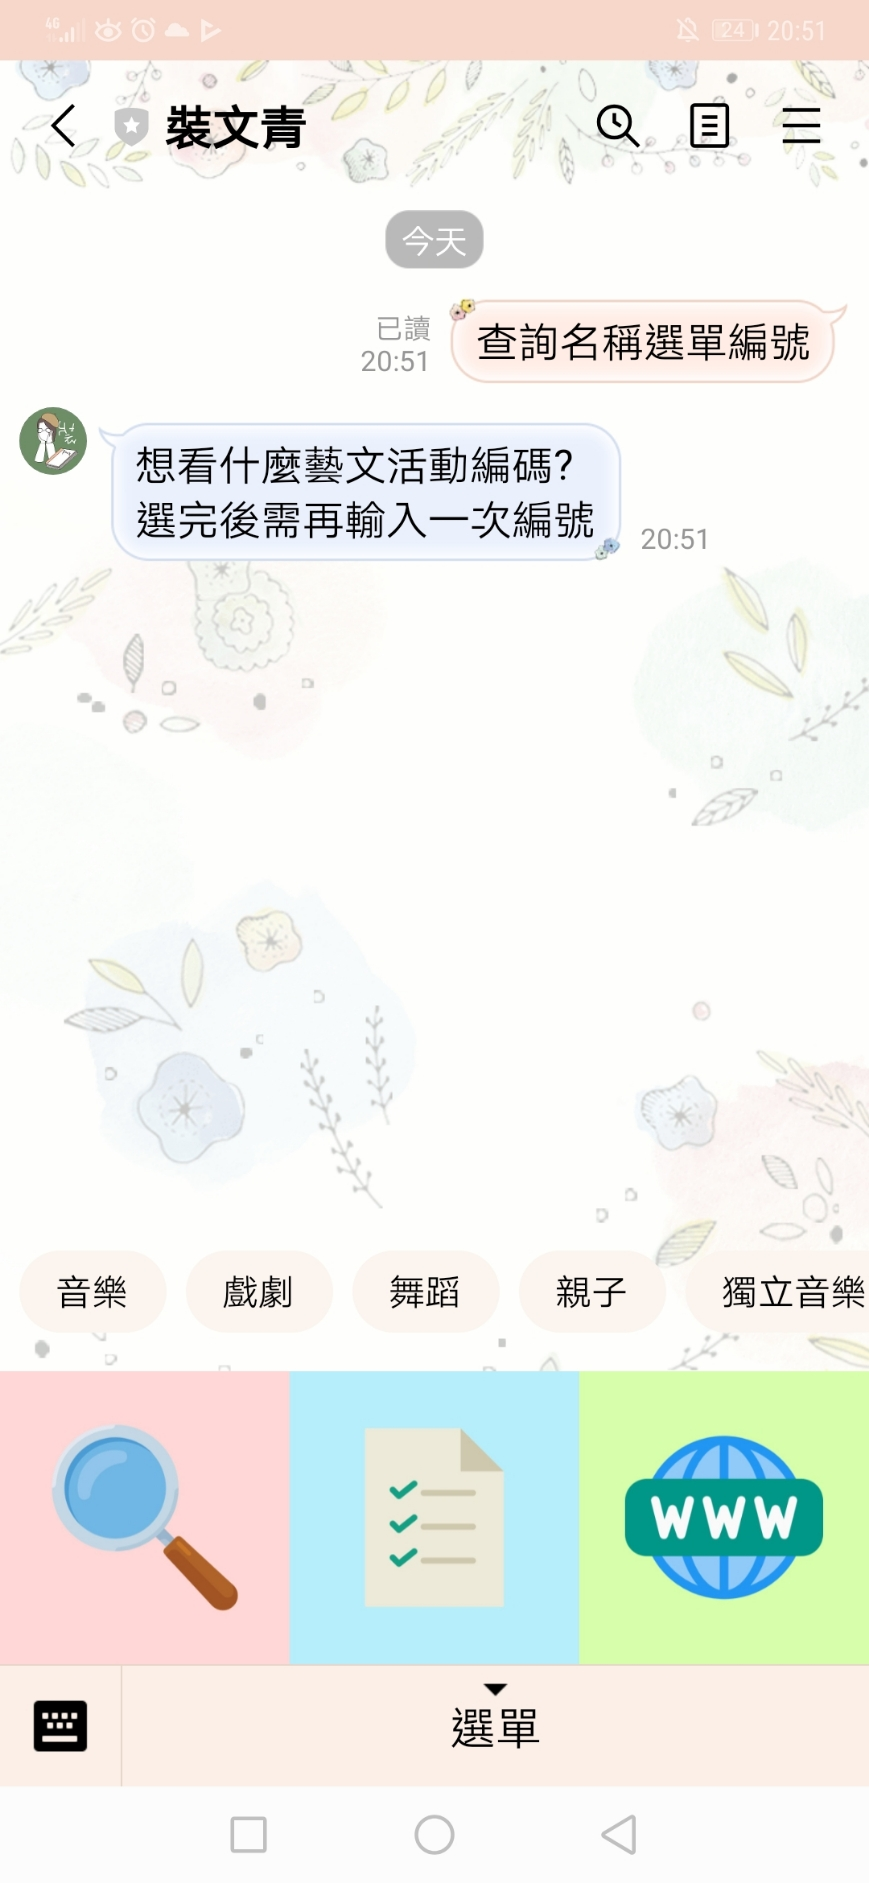
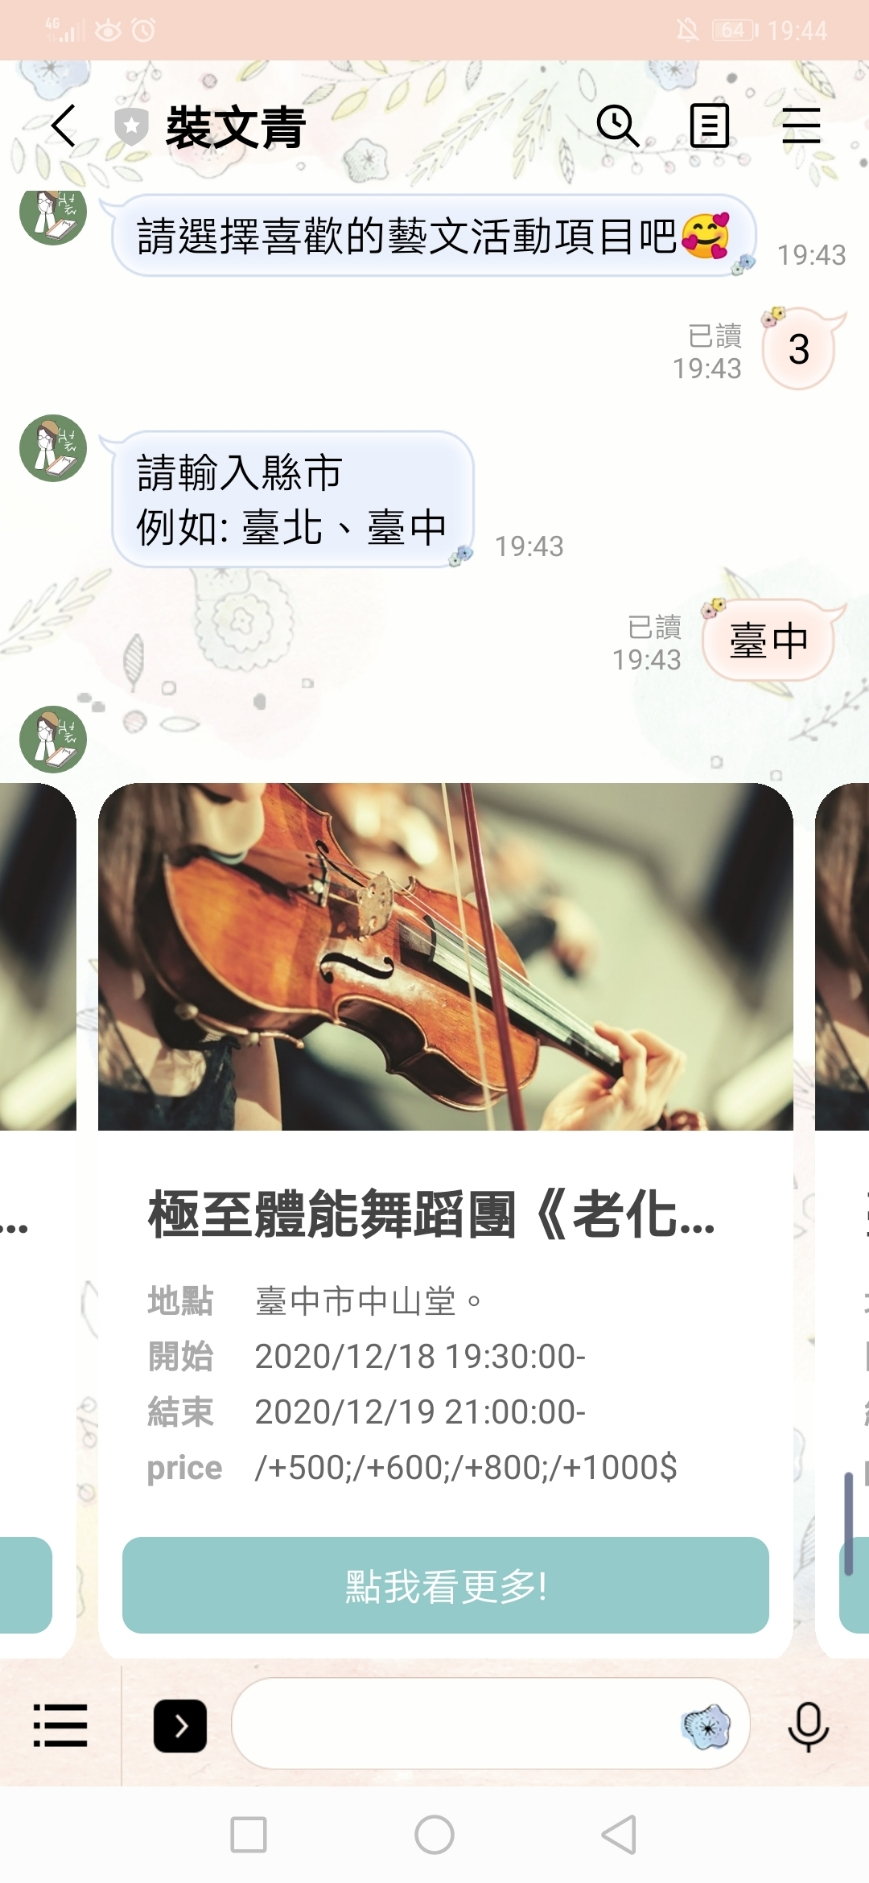
修改文字 、介紹

diff --git a/index.js b/index.js
@@ -34,14 +34,14 @@ bot.on('message', async event => {
     if (text === '找類別') {
       event.reply('請輸入搜尋特定編號:\n' + '🎼  音樂:  1 \n' + '🎭  戲劇:  2 \n' + '💃  舞蹈:  3 \n' + '👩👦  親子:  4\n' + '🎧  獨立音樂: 5 \n' +
         '👁  展覽:  6 \n' + '👨🏫  講座:  7 \n' + '🎬  電影:  8 \n' + '🧛  綜藝:  11 \n' + '⛳  競賽:  13 \n' + '🏆  徵選:  14 \n' + ' ❓  其他:  15 \n' + '🎤  演唱會:  17 \n' + '📖  研習課程:  19\n')
-    } else if (text === '對什麼類別有興趣呢?') {
+    } else if (text === '今天想裝文青🤓') {
       reply = await quickReply
       event.reply(reply)
     }
     if (text === '1' || text === '2' || text === '3' || text === '4' || text === '5' || text === '6' || text === '7' || text === '8' || text === '11' || text === '13' || text === '14' || text === '15' || text === '17' || text === '19') {
       num = text
-      reply = '請輸入城市\n' + '例如: 臺北、臺中'
       reply = await quickCity
+
       event.reply(reply)
       console.log(num)
       console.log(text)
@@ -568,6 +568,318 @@ bot.on('message', async event => {
                         ],
                         flex: 0
                       }
+                    },
+                    {
+                      type: 'bubble',
+                      hero: {
+                        type: 'image',
+                        url: 'https://i.imgur.com/HdtOodM.jpg',
+                        size: 'full',
+                        aspectRatio: '20:10',
+                        aspectMode: 'cover',
+                        action: {
+                          type: 'uri',
+                          uri: 'http://linecorp.com/'
+                        }
+                      },
+                      body: {
+                        type: 'box',
+                        layout: 'vertical',
+                        spacing: 'md',
+                        contents: [
+                          {
+                            type: 'text',
+                            text: info[3].title,
+                            weight: 'bold',
+                            size: 'xl'
+                          },
+                          {
+                            type: 'box',
+                            layout: 'vertical',
+                            margin: 'lg',
+                            spacing: 'sm',
+                            contents: [
+                              {
+                                type: 'box',
+                                layout: 'baseline',
+                                spacing: 'sm',
+                                contents: [
+                                  {
+                                    type: 'text',
+                                    text: '地點',
+                                    weight: 'bold',
+                                    color: '#aaaaaa',
+                                    size: 'sm',
+                                    flex: 1
+                                  },
+                                  {
+                                    type: 'text',
+                                    text: info[3].location,
+                                    wrap: true,
+                                    color: '#666666',
+                                    size: 'sm',
+                                    flex: 5
+                                  }
+                                ]
+                              },
+                              {
+                                type: 'box',
+                                layout: 'baseline',
+                                spacing: 'sm',
+                                contents: [
+                                  {
+                                    type: 'text',
+                                    text: '開始',
+                                    weight: 'bold',
+                                    color: '#aaaaaa',
+                                    size: 'sm',
+                                    flex: 1
+                                  },
+                                  {
+                                    type: 'text',
+                                    text: info[3].timestart,
+                                    wrap: true,
+                                    color: '#666666',
+                                    size: 'sm',
+                                    flex: 5
+                                  }
+                                ]
+                              },
+                              {
+                                type: 'box',
+                                layout: 'baseline',
+                                spacing: 'sm',
+                                contents: [
+                                  {
+                                    type: 'text',
+                                    text: '結束',
+                                    weight: 'bold',
+                                    color: '#aaaaaa',
+                                    size: 'sm',
+                                    flex: 1
+                                  },
+                                  {
+                                    type: 'text',
+                                    text: info[3].time,
+                                    wrap: true,
+                                    color: '#666666',
+                                    size: 'sm',
+                                    flex: 5
+                                  }
+                                ]
+                              },
+
+                              {
+                                type: 'box',
+                                layout: 'baseline',
+                                spacing: 'sm',
+                                contents: [
+                                  {
+                                    type: 'text',
+                                    text: 'price',
+                                    weight: 'bold',
+                                    color: '#aaaaaa',
+                                    size: 'sm',
+                                    flex: 1
+                                  },
+                                  // {
+                                  //   type: 'icon',
+                                  //   url: 'https://scdn.line-apps.com/n/channel_devcenter/img/fx/restaurant_large_32.png'
+                                  // },
+                                  {
+                                    type: 'text',
+                                    text: info[3].price,
+                                    wrap: true,
+                                    color: '#666666',
+                                    size: 'sm',
+                                    flex: 5
+                                  }
+                                ]
+                              }
+                            ]
+                          }
+                        ]
+                      },
+                      footer: {
+                        type: 'box',
+                        layout: 'vertical',
+                        contents: [
+                          {
+                            type: 'button',
+                            style: 'primary',
+                            height: 'sm',
+                            color: '#95CACA',
+                            action: {
+
+                              type: 'uri',
+                              label: '點我看更多!',
+                              uri: info[3].web
+                            }
+                          },
+
+                          {
+                            type: 'spacer',
+                            size: 'sm'
+                          }
+                        ],
+                        flex: 0
+                      }
+                    },
+                    {
+                      type: 'bubble',
+                      hero: {
+                        type: 'image',
+                        url: 'https://i.imgur.com/HdtOodM.jpg',
+                        size: 'full',
+                        aspectRatio: '20:10',
+                        aspectMode: 'cover',
+                        action: {
+                          type: 'uri',
+                          uri: 'http://linecorp.com/'
+                        }
+                      },
+                      body: {
+                        type: 'box',
+                        layout: 'vertical',
+                        spacing: 'md',
+                        contents: [
+                          {
+                            type: 'text',
+                            text: info[4].title,
+                            weight: 'bold',
+                            size: 'xl'
+                          },
+                          {
+                            type: 'box',
+                            layout: 'vertical',
+                            margin: 'lg',
+                            spacing: 'sm',
+                            contents: [
+                              {
+                                type: 'box',
+                                layout: 'baseline',
+                                spacing: 'sm',
+                                contents: [
+                                  {
+                                    type: 'text',
+                                    text: '地點',
+                                    weight: 'bold',
+                                    color: '#aaaaaa',
+                                    size: 'sm',
+                                    flex: 1
+                                  },
+                                  {
+                                    type: 'text',
+                                    text: info[4].location,
+                                    wrap: true,
+                                    color: '#666666',
+                                    size: 'sm',
+                                    flex: 5
+                                  }
+                                ]
+                              },
+                              {
+                                type: 'box',
+                                layout: 'baseline',
+                                spacing: 'sm',
+                                contents: [
+                                  {
+                                    type: 'text',
+                                    text: '開始',
+                                    weight: 'bold',
+                                    color: '#aaaaaa',
+                                    size: 'sm',
+                                    flex: 1
+                                  },
+                                  {
+                                    type: 'text',
+                                    text: info[4].timestart,
+                                    wrap: true,
+                                    color: '#666666',
+                                    size: 'sm',
+                                    flex: 5
+                                  }
+                                ]
+                              },
+                              {
+                                type: 'box',
+                                layout: 'baseline',
+                                spacing: 'sm',
+                                contents: [
+                                  {
+                                    type: 'text',
+                                    text: '結束',
+                                    weight: 'bold',
+                                    color: '#aaaaaa',
+                                    size: 'sm',
+                                    flex: 1
+                                  },
+                                  {
+                                    type: 'text',
+                                    text: info[4].time,
+                                    wrap: true,
+                                    color: '#666666',
+                                    size: 'sm',
+                                    flex: 5
+                                  }
+                                ]
+                              },
+
+                              {
+                                type: 'box',
+                                layout: 'baseline',
+                                spacing: 'sm',
+                                contents: [
+                                  {
+                                    type: 'text',
+                                    text: 'price',
+                                    weight: 'bold',
+                                    color: '#aaaaaa',
+                                    size: 'sm',
+                                    flex: 1
+                                  },
+                                  // {
+                                  //   type: 'icon',
+                                  //   url: 'https://scdn.line-apps.com/n/channel_devcenter/img/fx/restaurant_large_32.png'
+                                  // },
+                                  {
+                                    type: 'text',
+                                    text: info[4].price,
+                                    wrap: true,
+                                    color: '#666666',
+                                    size: 'sm',
+                                    flex: 5
+                                  }
+                                ]
+                              }
+                            ]
+                          }
+                        ]
+                      },
+                      footer: {
+                        type: 'box',
+                        layout: 'vertical',
+                        contents: [
+                          {
+                            type: 'button',
+                            style: 'primary',
+                            height: 'sm',
+                            color: '#95CACA',
+                            action: {
+
+                              type: 'uri',
+                              label: '點我看更多!',
+                              uri: info[3].web
+                            }
+                          },
+
+                          {
+                            type: 'spacer',
+                            size: 'sm'
+                          }
+                        ],
+                        flex: 0
+                      }
                     }
                   ]
                 }
@@ -594,7 +906,7 @@ bot.on('message', async event => {
 // 放大鏡小選單
 const quickReply = {
   type: 'text',
-  text: '想看什麼藝文活動編碼?\n' + '選完後需再輸入一次編號',
+  text: '請選擇喜歡的藝文活動項目吧🥰',
   quickReply: {
     items: [
       {
@@ -707,7 +1019,7 @@ const quickReply = {
 
 const quickCity = {
   type: 'text',
-  text: '請輸入城市\n' + '例如: 臺北、臺中',
+  text: '請輸入縣市\n' + '例如: 臺北、臺中',
   quickCity: {
     items: [
       {

diff --git a/README.md b/README.md
@@ -1,2 +1,10 @@
 # 裝文青
 ### ID: @891olcmf
+
+
+ >此帳號主要是找尋相關藝文活動資訊  
+ 共有15個類別:音樂、戲劇、舞蹈、親子、獨立音樂、展覽、講座、電影、綜藝、競賽、徵選、其他、演唱會、研習課程
+ 
+ 
+ #操作畫面
+ 
